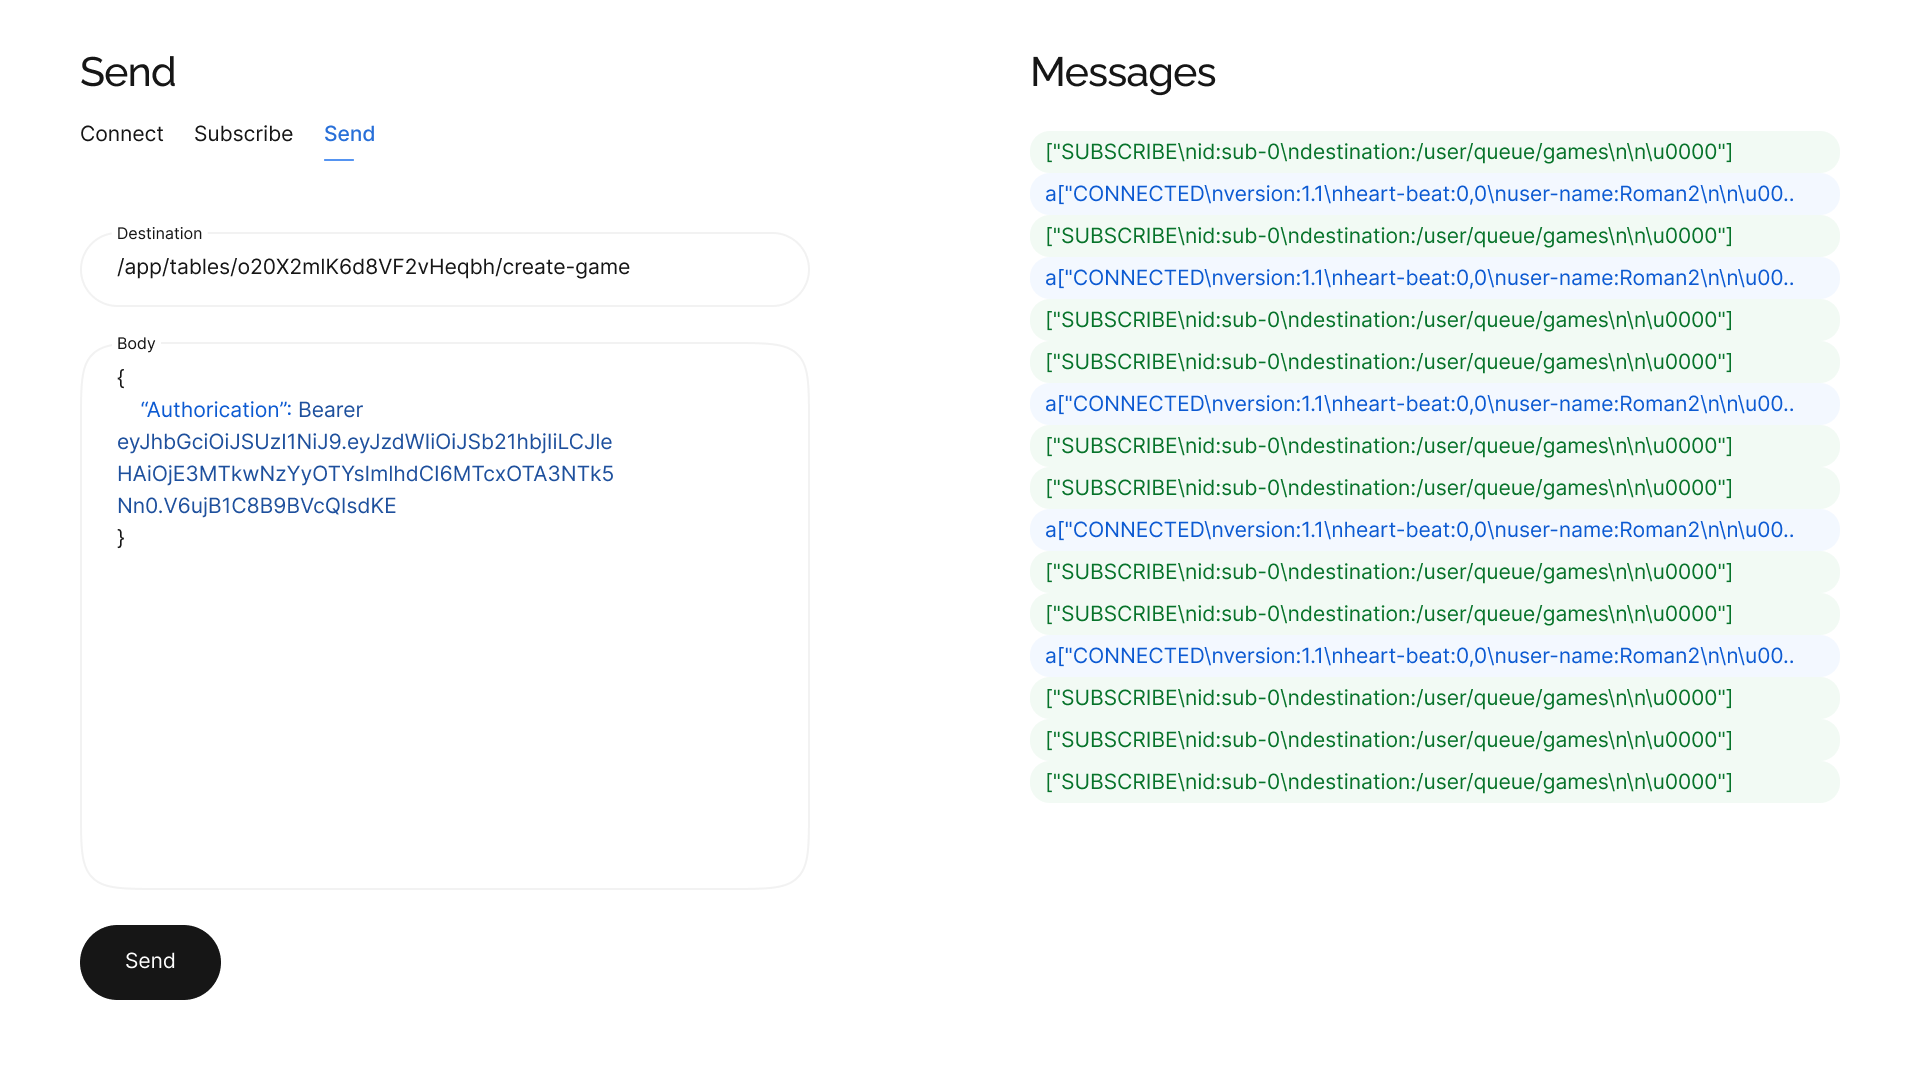
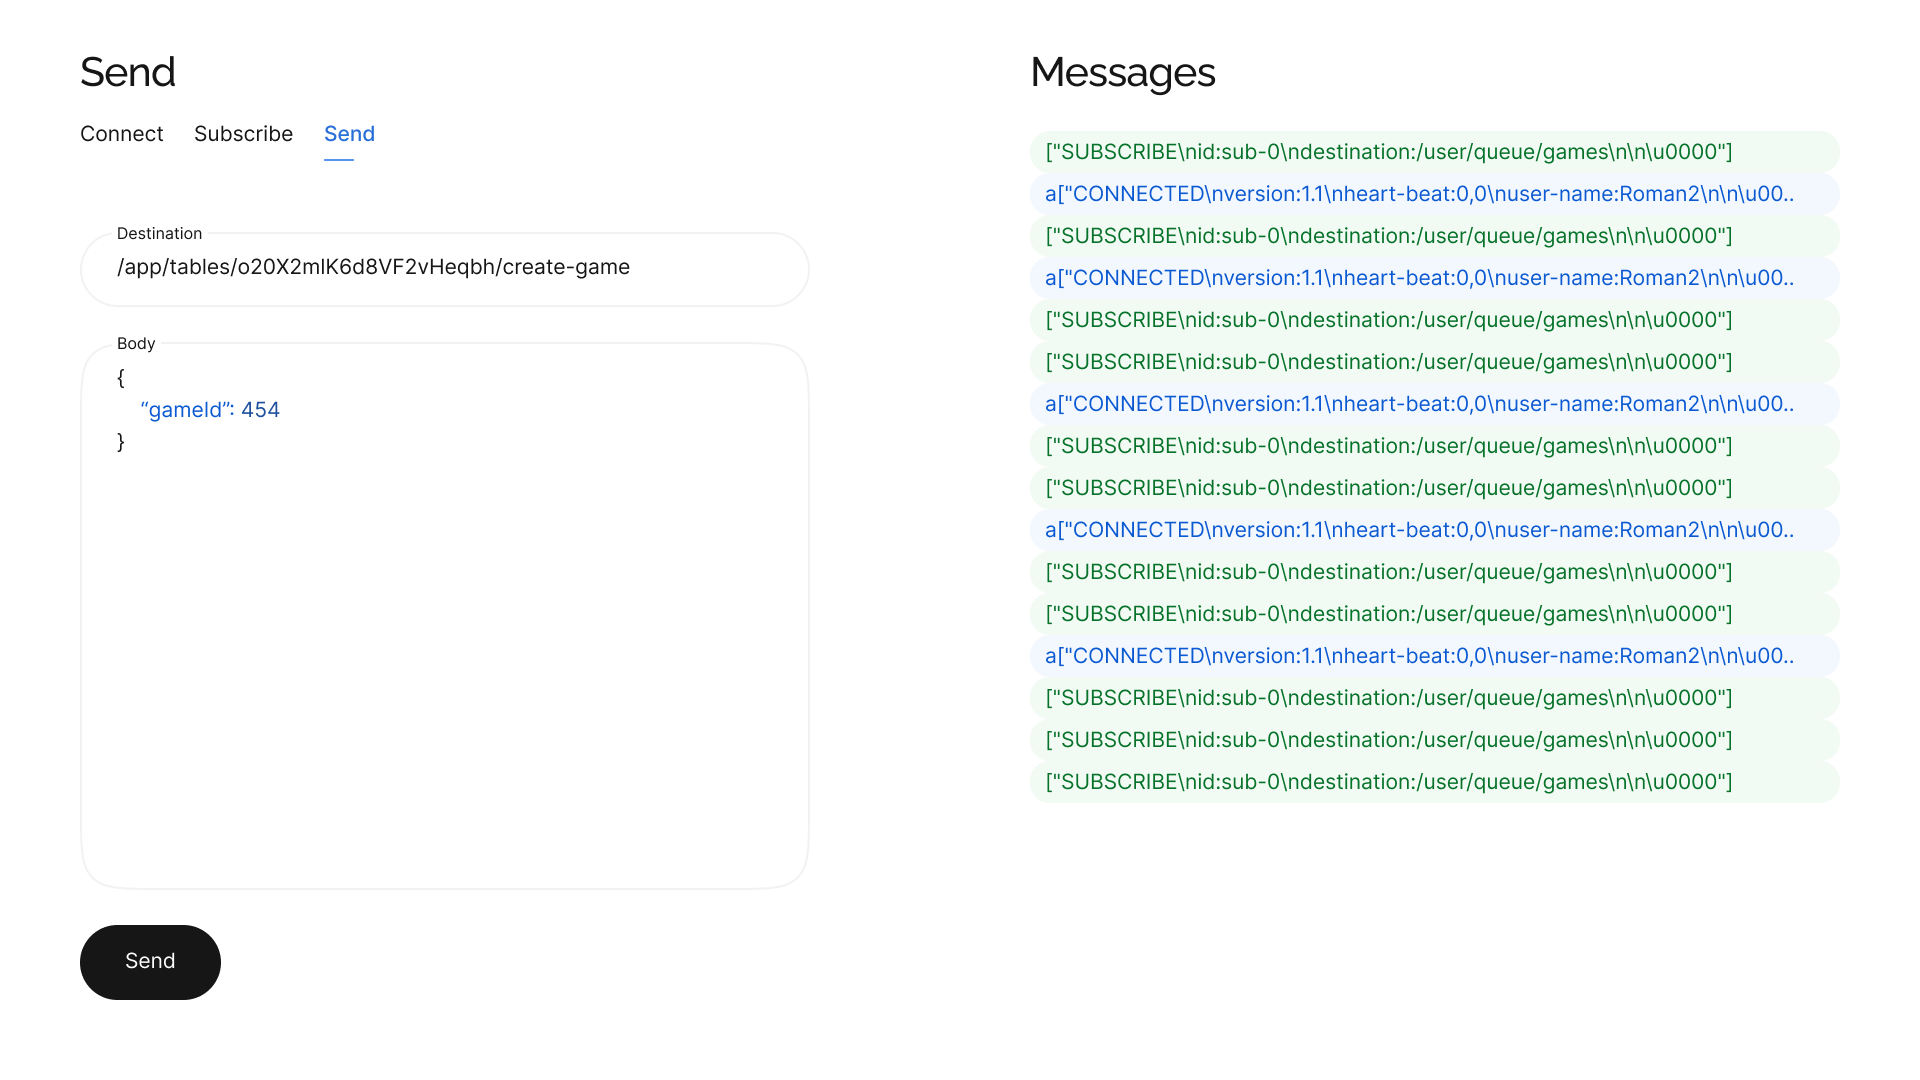
Update readme

Changed region(s): [[0.0625, 0.3667, 0.3125, 0.4889]]

diff --git a/src/components/SendPage/SendPage.tsx b/src/components/SendPage/SendPage.tsx
@@ -22,14 +22,14 @@ const SendPage = ({sendDestination, onSendDestinationChange, sendBody, onSendBod
             <TextField
                 className='send-page__text-field'
                 placeholder='Destination'
-                example='http://localhost:8080/ws'
+                example='/app/tables/o20X2mlK6d8VF2vHeqbh/create-game'
                 value={sendDestination}
                 onValueChange={onSendDestinationChange}
             />
             <TextArea
                 className='send-page__text-area'
                 placeholder='Body'
-                example='{“Authorication”: Bearer eyJhbGciOiJSUzI1NiJ9.eyJzdWIiOiJSb21hbjIiLCJleHAiOjE3MT}'
+                example='{“tableId”: 5}'
                 value={sendBody}
                 onValueChange={onSendBodyChange}
             />
